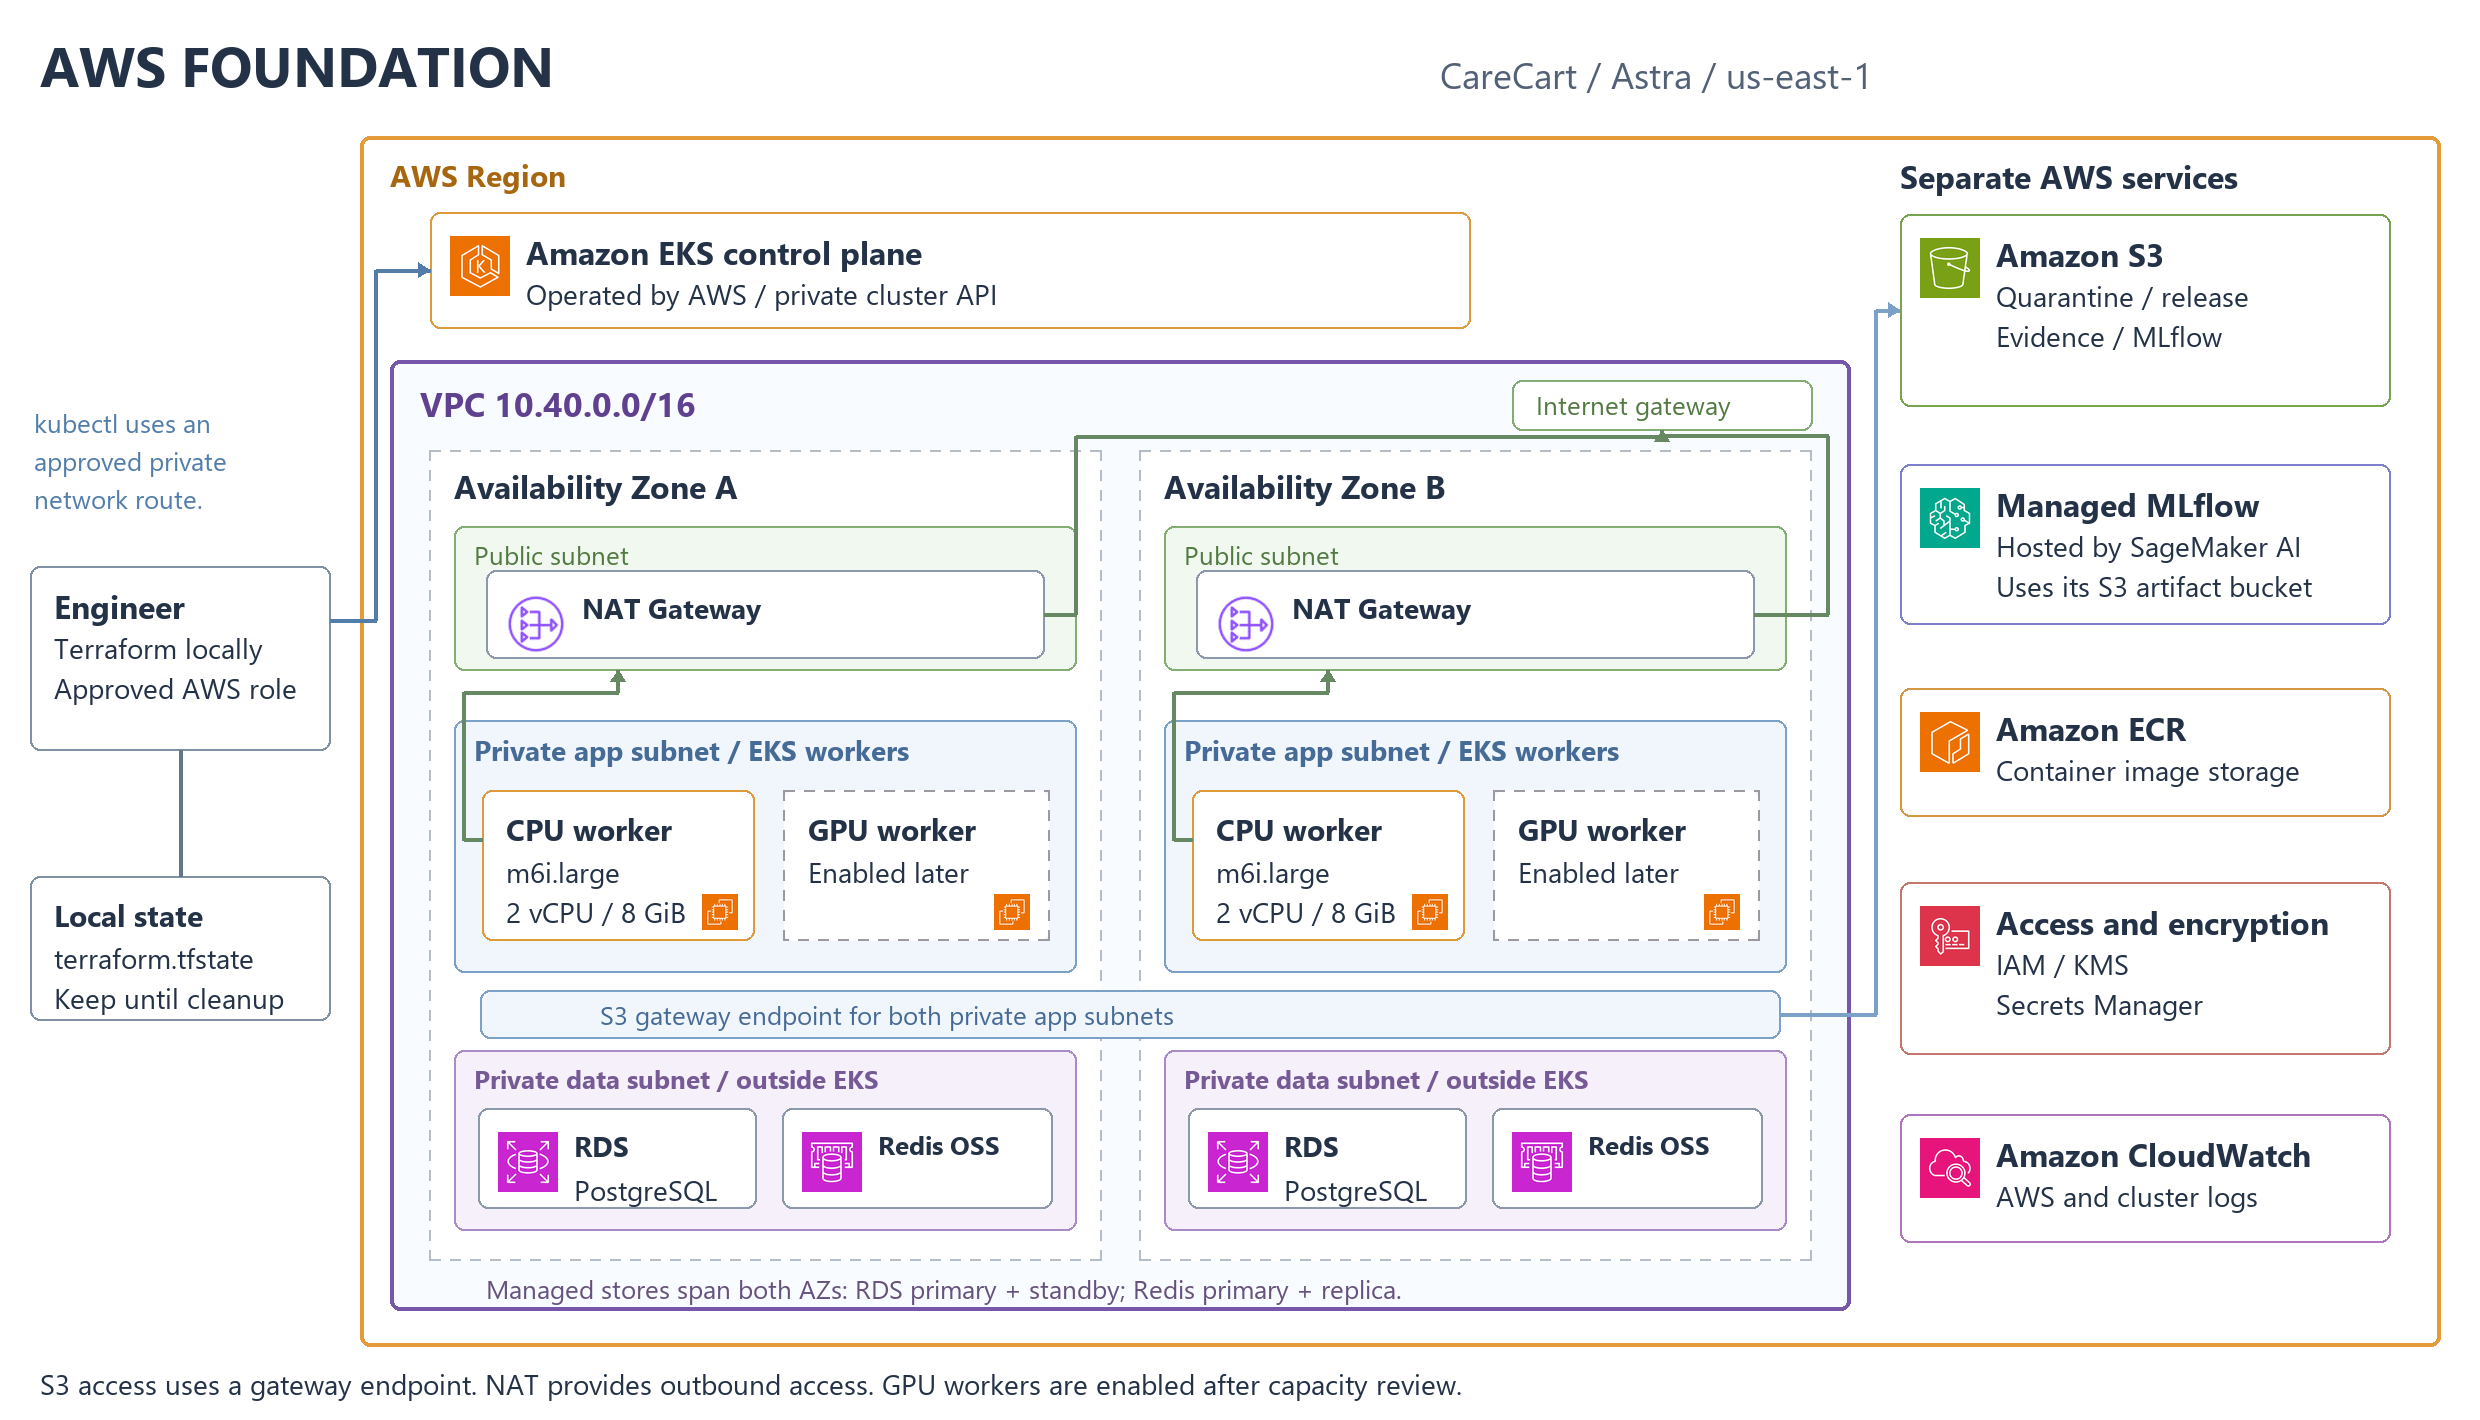
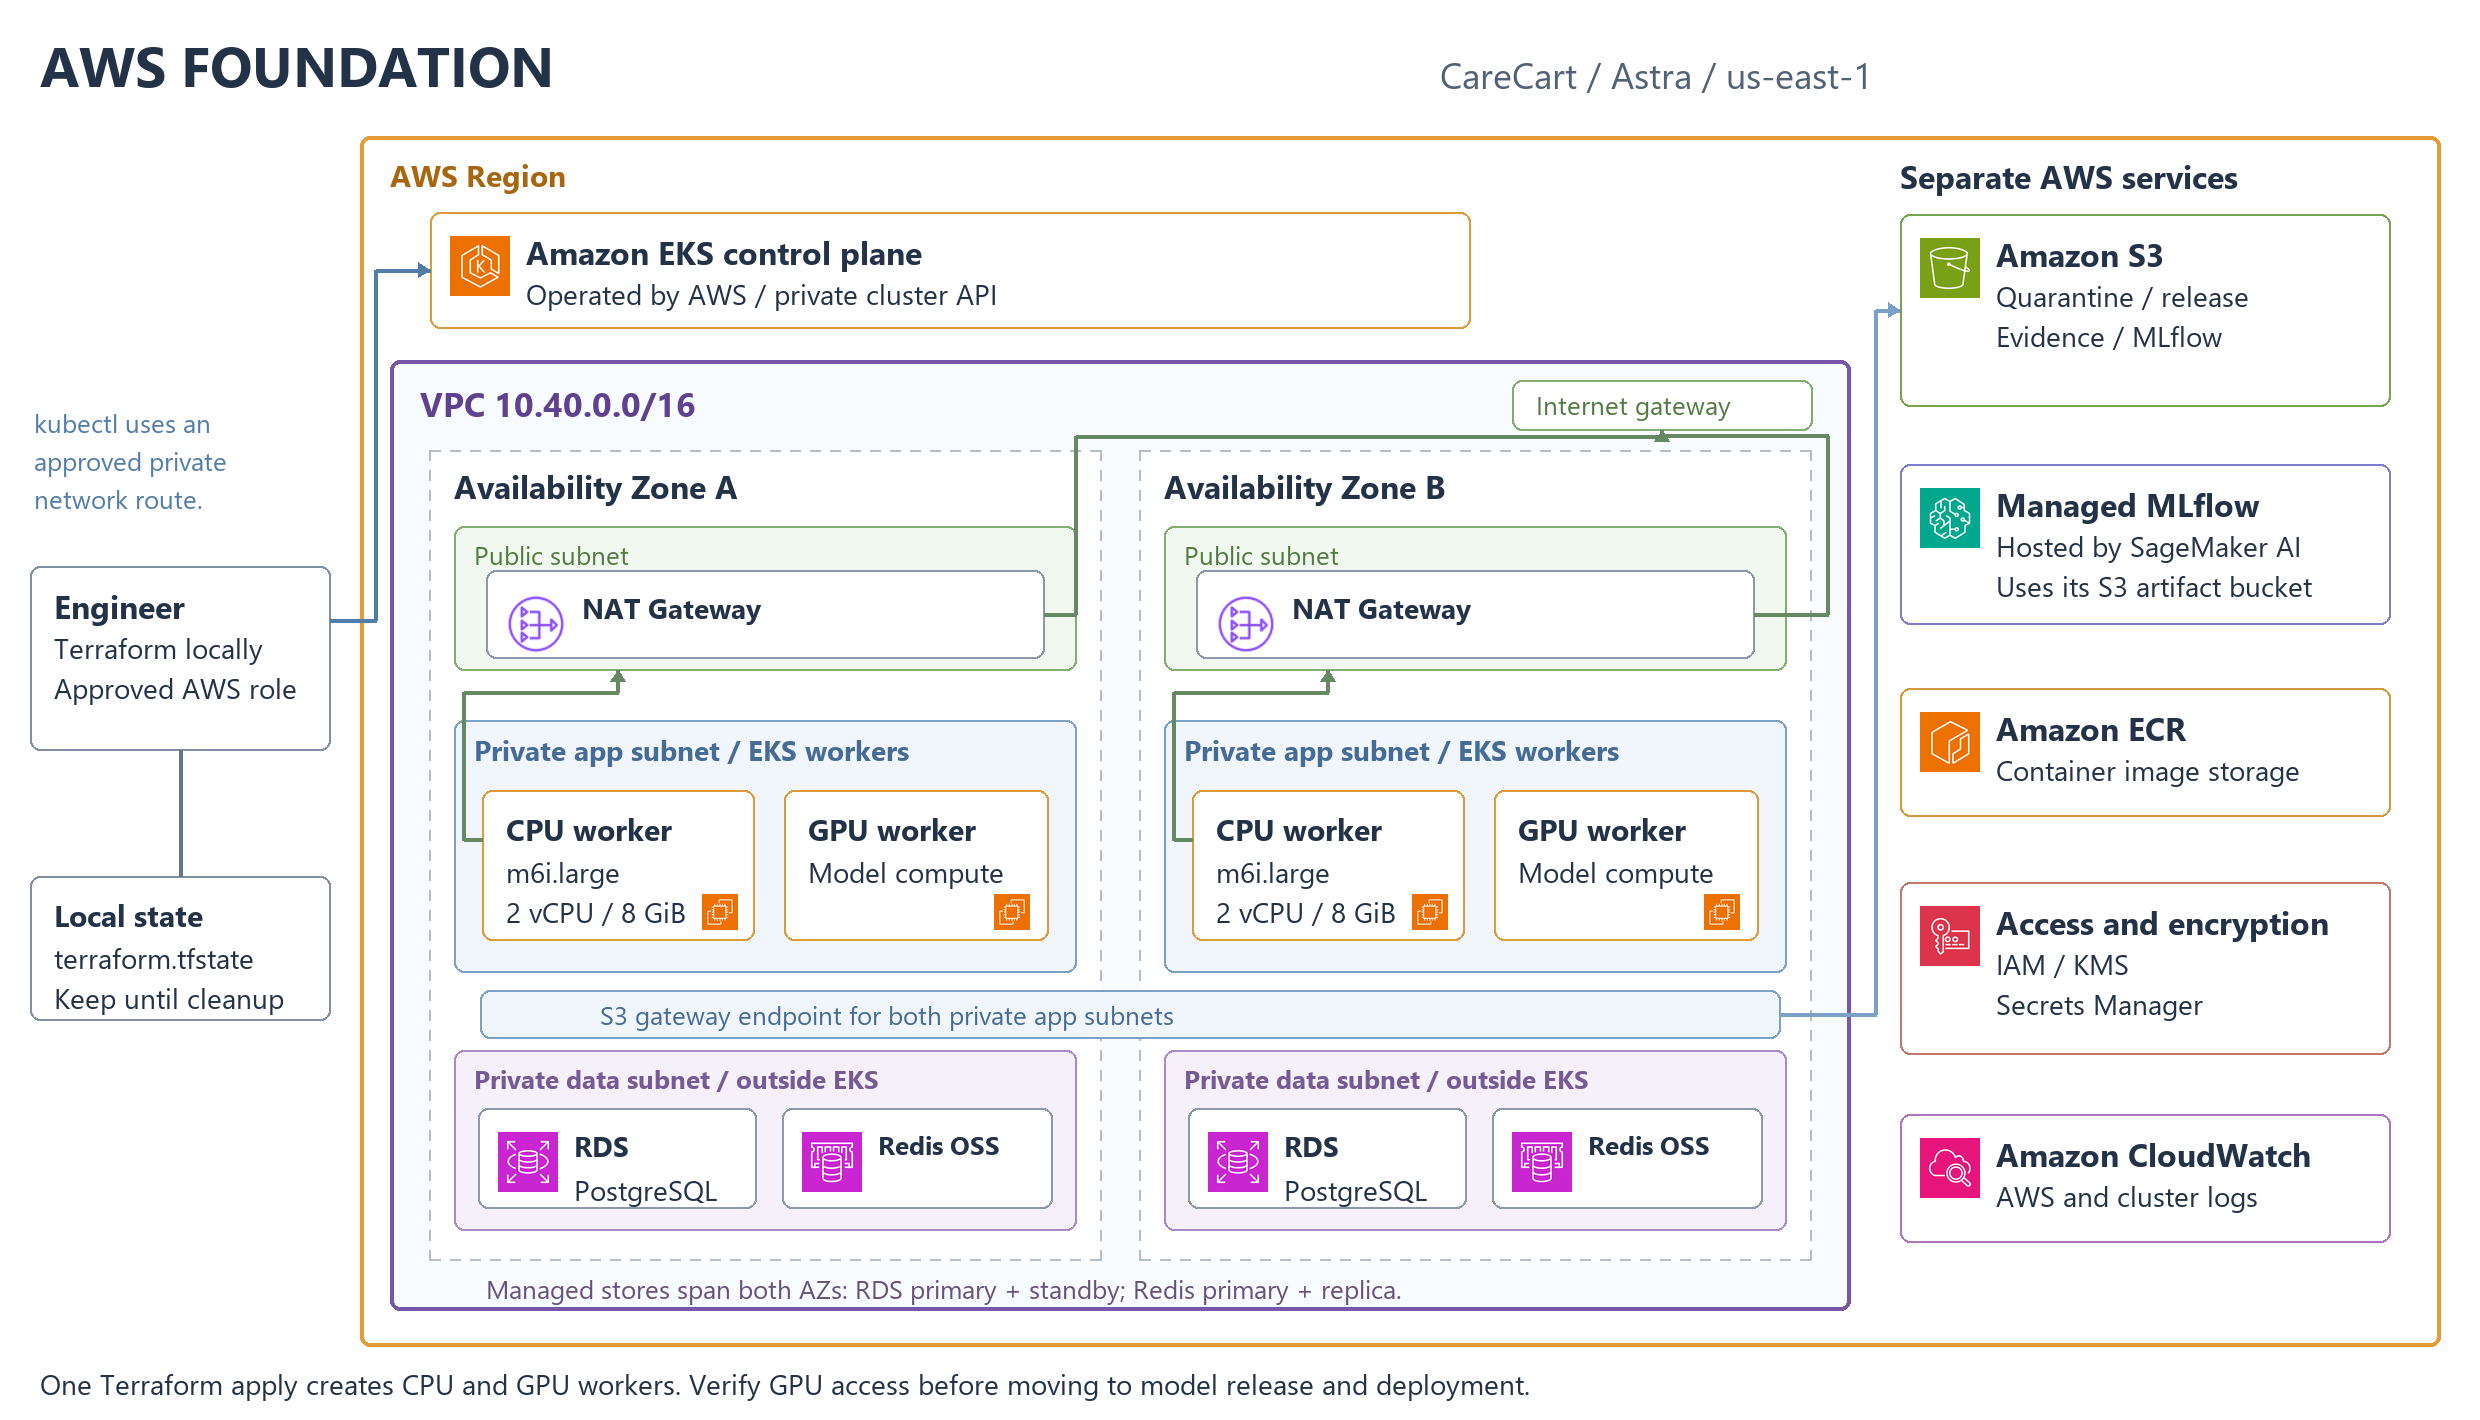
Provision CPU and GPU workers together in foundation

Changed region(s): [[0.0, 0.9606, 0.621, 0.9915], [0.3105, 0.5887, 0.4036, 0.6197], [0.621, 0.5887, 0.6831, 0.6197]]

diff --git a/README.md b/README.md
@@ -16,7 +16,7 @@ Use the focused guides for [application onboarding](docs/application-onboarding.
 
 ![AWS foundation](docs/aws-foundation.png)
 
-The editable diagram is docs/aws-foundation.drawio. EKS CPU workers start as one m6i.large per Availability Zone. GPU workers start disabled. RDS and Redis are separate managed services in private data subnets; MLflow is managed by SageMaker.
+The editable diagram is docs/aws-foundation.drawio. The first Terraform apply creates one m6i.large CPU worker and one GPU worker per Availability Zone. Verify the workers and GPU access before moving to model release and deployment. RDS and Redis are separate managed services in private data subnets; MLflow is managed by SageMaker.
 
 Terraform state stays locally in infra/terraform.tfstate. Keep it and its backup through cleanup. State and plan files can contain credentials and are excluded from Git.
 
